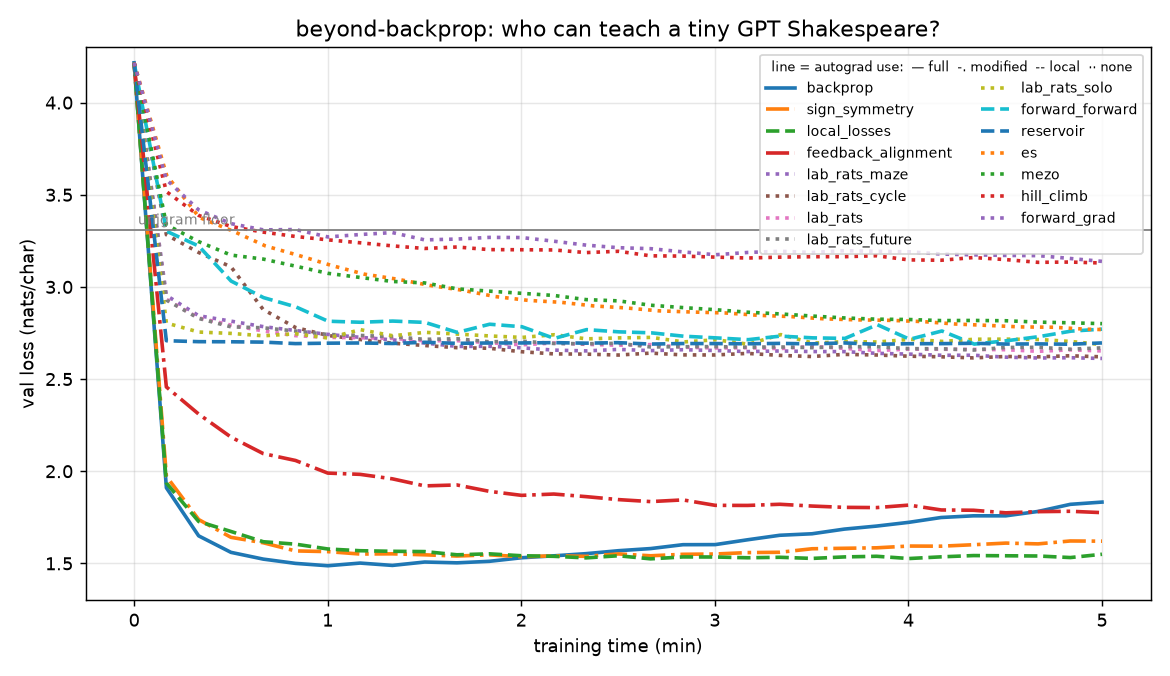
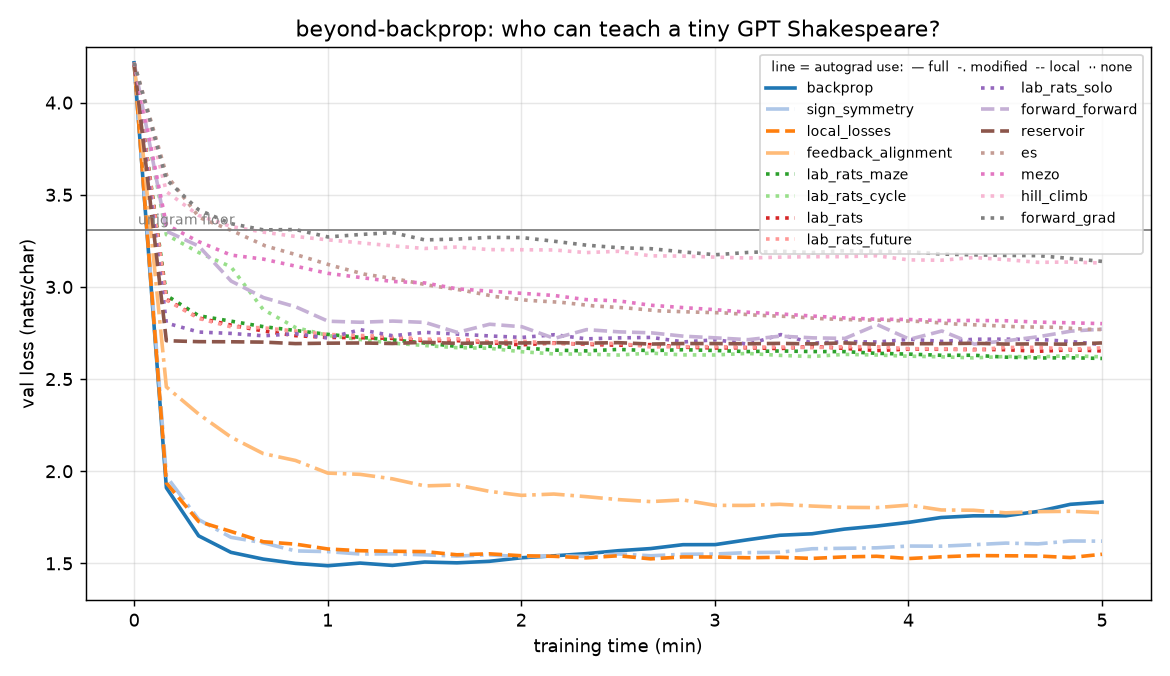
Plot: 20-colour palette so lines stop sharing colours

diff --git a/bbp/leaderboard.py b/bbp/leaderboard.py
@@ -63,10 +63,11 @@ def plot(rows):
     except ImportError:
         return None
     fig, ax = plt.subplots(figsize=(9, 5.2), dpi=130)
-    for r in rows:
+    colors = plt.cm.tab20(range(20))
+    for i, r in enumerate(rows):
         c = r["curve"]
         ls = {"none": ":", "local": "--", "modified": "-.", "full": "-"}[r["autograd"]]
-        ax.plot([p["t"] / 60 for p in c], [p["val"] for p in c], ls, lw=2, label=r["rule"])
+        ax.plot([p["t"] / 60 for p in c], [p["val"] for p in c], ls, lw=2, label=r["rule"], color=colors[i % 20])
     ax.axhline(rows[0]["unigram_loss"], color="grey", lw=1)
     ax.text(0.02, rows[0]["unigram_loss"] + 0.03, "unigram floor", color="grey", fontsize=8)
     ax.set_xlabel("training time (min)")
